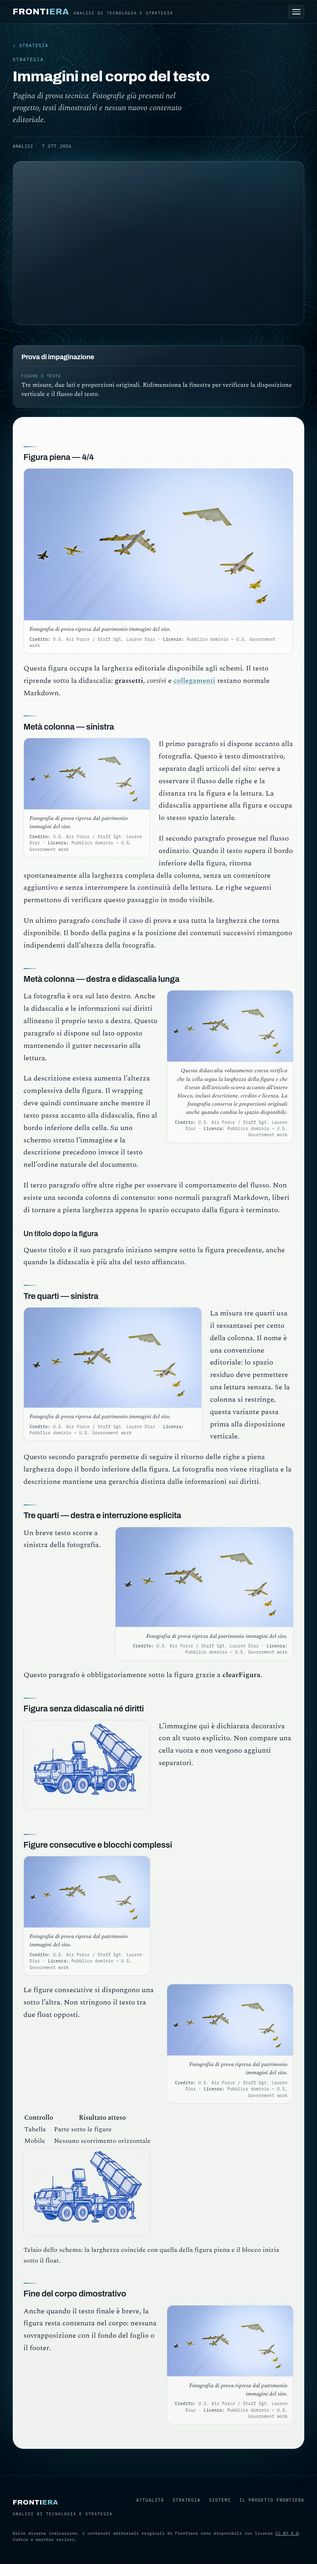
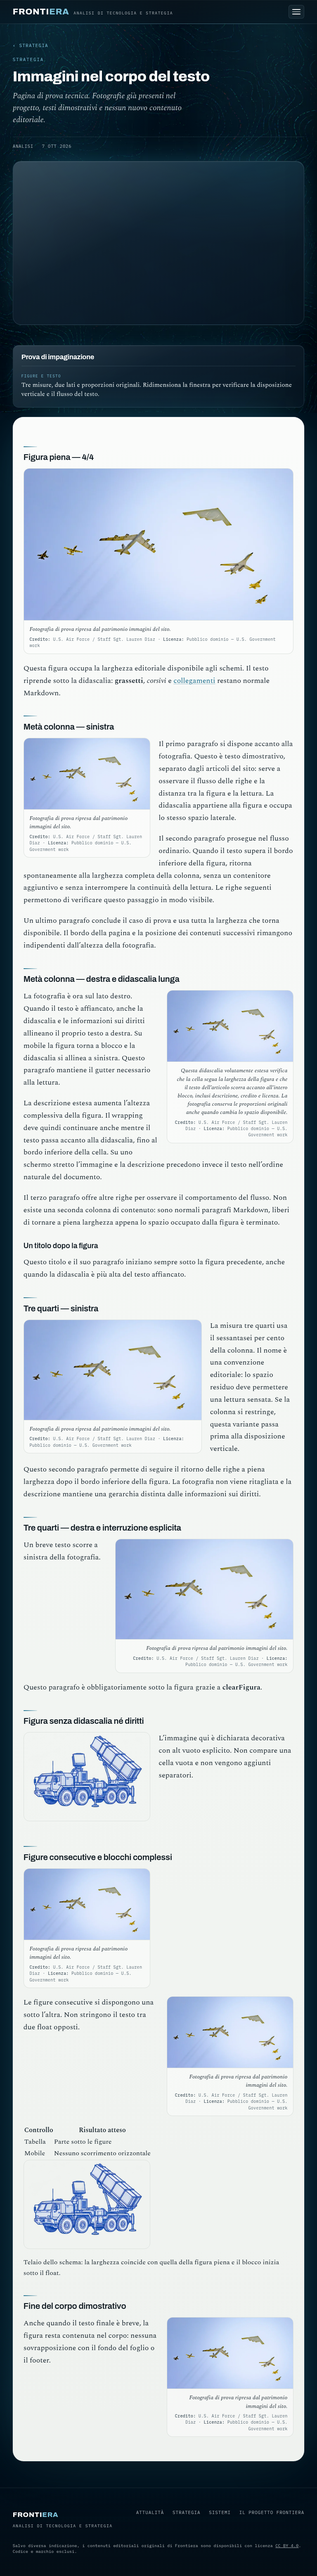
fix: align block captions left and synchronize keyboard scroll tests

diff --git a/tests/browser/technical-recon.spec.js b/tests/browser/technical-recon.spec.js
@@ -15,6 +15,18 @@ async function expectSinglePressedFilter(page, label) {
   expect(state.on).toEqual([label]);
 }
 
+// Attendere lo scroll nativo: il primo pixel di End non significa che il
+// movimento sia concluso. Un Home immediato può essere assorbito da Chromium.
+async function pressScrollKey(page, key) {
+  await page.evaluate(() => {
+    window.__keyboardScrollDone = new Promise(resolve => {
+      window.addEventListener("scrollend", () => resolve(), { once: true });
+    });
+  });
+  await page.keyboard.press(key);
+  await page.evaluate(() => window.__keyboardScrollDone);
+}
+
 test.describe("A1 — menu mobile", () => {
   test.use({ viewport: MOBILE });
 
@@ -78,17 +90,17 @@ test.describe("A4 — richiamo infobox mobile", () => {
     await expect(trigger).toHaveAttribute("aria-hidden", "true");
     await expect(trigger).toHaveAttribute("tabindex", "-1");
 
-    await page.keyboard.press("End");
+    await pressScrollKey(page, "End");
     await expect.poll(() => page.evaluate(() => window.scrollY)).toBeGreaterThan(0);
     await expect(trigger).toHaveAttribute("aria-hidden", "false");
     await expect(trigger).toHaveAttribute("tabindex", "0");
 
-    await page.keyboard.press("Control+Home");
+    await pressScrollKey(page, "Control+Home");
     await expect.poll(() => page.evaluate(() => window.scrollY)).toBe(0);
     await expect(trigger).toHaveAttribute("aria-hidden", "true");
     await expect(trigger).toHaveAttribute("tabindex", "-1");
 
-    await page.keyboard.press("End");
+    await pressScrollKey(page, "End");
     await expect(trigger).toHaveAttribute("aria-hidden", "false");
     await trigger.click();
     await expect(dialog).toBeVisible();

diff --git a/src/css/frontiera.css b/src/css/frontiera.css
@@ -2962,7 +2962,6 @@ footer .license-note a:hover{color:#fff}
   background:rgba(255,255,255,.42);text-align:left;
 }
 .articlebody > figure.figura-inline .rights > span + span::before{content:" · "}
-.articlebody > figure.figura-inline--right figcaption{text-align:right}
 .articlebody:has(> .figura-inline) > :is(h1,h2,h3,h4,h5,h6,figure,table,pre,blockquote,ul,ol,hr,.schema-kit,.starlink-flow,.palantir-schema,.figura-clear){clear:both}
 .figura-clear{clear:both}
 /* 740px è solo la prima soglia: con sidebar una viewport desktop può lasciare
@@ -2972,10 +2971,12 @@ footer .license-note a:hover{color:#fff}
     .articlebody > figure.figura-inline--2{width:47%}
     .articlebody > figure.figura-inline--2.figura-inline--left{float:left;margin-right:1.25rem}
     .articlebody > figure.figura-inline--2.figura-inline--right{float:right;margin-left:1.25rem}
+    .articlebody > figure.figura-inline--2.figura-inline--right figcaption{text-align:right}
   }
   @container figure-editoriali (min-width:38rem){
     .articlebody > figure.figura-inline--3{width:66%}
     .articlebody > figure.figura-inline--3.figura-inline--left{float:left;margin-right:1.25rem}
     .articlebody > figure.figura-inline--3.figura-inline--right{float:right;margin-left:1.25rem}
+    .articlebody > figure.figura-inline--3.figura-inline--right figcaption{text-align:right}
   }
 }

diff --git a/tests/browser/figure-inline.spec.js b/tests/browser/figure-inline.spec.js
@@ -68,7 +68,8 @@ for (const width of [1440, 1280, 1024, 900, 768, 740, 739, 390]) {
       expect(report.returnLeft).toBeCloseTo(report.body.left, 0);
     }
     if (largeFloats) expect(report.figures[3].width / report.body.width).toBeCloseTo(.66, 2);
-    expect(report.figures[2].align).toBe("right");
+    expect(report.figures[2].align).toBe(halfFloats ? "right" : "left");
+    expect(report.figures[4].align).toBe(largeFloats ? "right" : "left");
     expect(errors).toEqual([]);
     if (process.env.FIGURE_SCREENSHOTS && [1440,768,390,740].includes(width)) {
       await page.evaluate(() => scrollTo(0, 0));

diff --git a/docs/immagini-inline/VALIDAZIONE.md b/docs/immagini-inline/VALIDAZIONE.md
@@ -69,3 +69,19 @@ configurazione e l'installazione Chromium già adottate dal progetto.
 
 Dettagli di lettura: [wrapping desktop](screenshots/wrapping-1440.png) e
 [disposizione mobile](screenshots/wrapping-390.png).
+
+## Rifinitura mobile e sincronizzazione del test tastiera
+
+Su richiesta, didascalia e diritti sono allineati a sinistra su mobile e in
+ogni fallback a blocco. L'allineamento destro è limitato alle figure che sono
+effettivamente flottanti a destra. Dieci test dedicati aggiornati e superati;
+screenshot rigenerati dopo la modifica.
+
+La suite generale aveva superato 100 test su 101: il controllo End/Home
+inviava Home appena rilevava il primo spostamento di End, durante lo scroll
+nativo ancora in corso. La riproduzione strumentata conferma che i tasti non
+sono intercettati dal sito e che Home funziona a movimento concluso.
+Il test ora attende l'evento `scrollend` prima del comando successivo, mantenendo
+inalterate le verifiche di posizione, visibilità del richiamo e ritorno del focus.
+Tre esecuzioni consecutive del test corretto sono passate. Nessuna modifica
+al comportamento del sito per compensare il test.

diff --git a/src/demo/immagini-inline.md b/src/demo/immagini-inline.md
@@ -52,7 +52,7 @@ Un ultimo paragrafo conclude il caso di prova e usa tutta la larghezza che torna
 
 {% figura immagini_inline.lunga, "2/4", "right" %}
 
-La fotografia è ora sul lato destro. Anche la didascalia e le informazioni sui diritti allineano il proprio testo a destra. Questo paragrafo si dispone sul lato opposto mantenendo il gutter necessario alla lettura.
+La fotografia è ora sul lato destro. Quando il testo è affiancato, anche la didascalia e le informazioni sui diritti allineano il proprio testo a destra. Su mobile la figura torna a blocco e la didascalia si allinea a sinistra. Questo paragrafo mantiene il gutter necessario alla lettura.
 
 La descrizione estesa aumenta l’altezza complessiva della figura. Il wrapping deve quindi continuare anche mentre il testo passa accanto alla didascalia, fino al bordo inferiore della cella. Su uno schermo stretto l’immagine e la descrizione precedono invece il testo nell’ordine naturale del documento.
 

diff --git a/docs/immagini-inline/README.md b/docs/immagini-inline/README.md
@@ -67,7 +67,9 @@ della descrizione e l'appropriatezza dei diritti restano verifiche editoriali.
 `4/4` occupa la larghezza disponibile agli schemi (massimo 64rem, senza uscire
 dal corpo). `2/4` e `3/4` usano float CSS al 47% e 66%, con gutter di 1.25rem.
 Il margine inferiore è quello dei paragrafi, 1.25rem. Didascalia e diritti fanno
-parte del float; le figure destre allineano anche la didascalia a destra.
+parte del float; le figure flottanti destre allineano anche la didascalia a destra.
+Su mobile e ogni volta che la figura torna a blocco, didascalia e diritti sono
+allineati a sinistra.
 
 Sotto 740px tutte le figure sono verticali. Anche sopra tale soglia, le container
 query mantengono la disposizione verticale quando il corpo ha meno di 30rem
